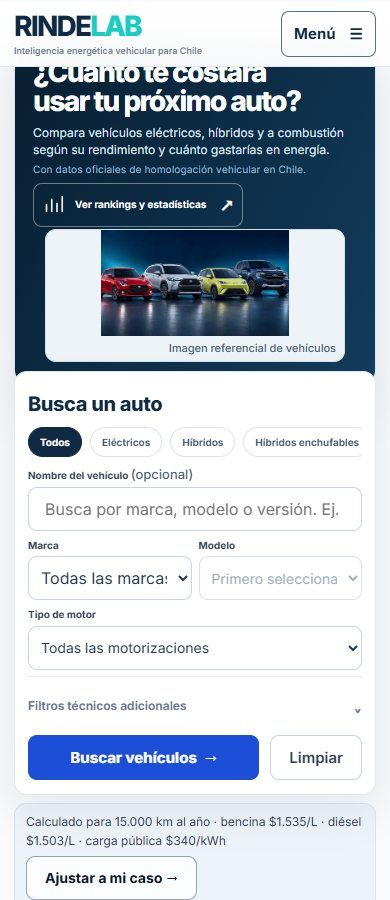
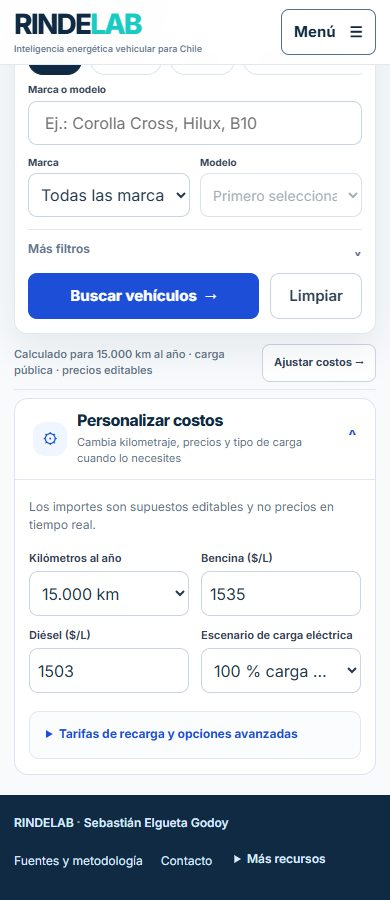
ux(rindelab): remove homepage clutter and add LinkedIn share preview

diff --git a/rindelab/index.html b/rindelab/index.html
@@ -7,13 +7,18 @@
 <meta name="description" content="RINDELAB: busca vehículos homologados en Chile, revisa sus rendimientos y compara el costo estimado de energía por 100 kilómetros.">
 <meta name="author" content="Sebastián Elgueta Godoy">
 <meta property="og:type" content="website">
+<meta property="og:locale" content="es_CL">
 <meta property="og:title" content="RINDELAB | Con las alzas, cada peso cuenta">
-<meta property="og:description" content="Busca vehículos, compara rendimientos y estima cuánto gastarías en energía al año o en cinco años. Chile, datos 3CV.">
+<meta property="og:description" content="Compara vehículos eléctricos, híbridos y a combustión. Consulta rendimiento homologado y estima el gasto de energía según tus kilómetros.">
 <meta property="og:url" content="https://selguetagodoy.github.io/rindelab/">
 <meta property="og:site_name" content="RINDELAB">
-<meta property="og:image" content="https://selguetagodoy.github.io/rindelab/hero-foto-rindelab.webp">
-<meta property="og:image:alt" content="Automóviles representativos sobre fondo azul. RINDELAB, comparador de costos energéticos.">
+<meta property="og:image" content="https://selguetagodoy.github.io/rindelab/linkedin-preview.png">
+<meta property="og:image:type" content="image/png">
+<meta property="og:image:width" content="1200">
+<meta property="og:image:height" content="630">
+<meta property="og:image:alt" content="RINDELAB: compara el gasto energético de tu próximo auto con datos oficiales 3CV.">
 <meta name="twitter:card" content="summary_large_image">
+<meta name="twitter:image" content="https://selguetagodoy.github.io/rindelab/linkedin-preview.png">
 <script type="application/ld+json">{"@context":"https://schema.org","@graph":[{"@type":"WebApplication","name":"RINDELAB","url":"https://selguetagodoy.github.io/rindelab/","description":"Consulta homologaciones 3CV y compara costos energéticos estimados de vehículos en Chile.","applicationCategory":"ReferenceApplication","operatingSystem":"Web","isAccessibleForFree":true,"creator":{"@type":"Person","name":"Sebastián Elgueta Godoy"}},{"@type":"Dataset","name":"RINDELAB: rendimientos vehiculares homologados en Chile","description":"Integración independiente de fichas 3CV de mayo 2026 y nuevos códigos de la consulta oficial de octubre 2026. No equivale a un catálogo de vehículos disponibles para venta.","url":"https://selguetagodoy.github.io/rindelab/","isBasedOn":["https://www.consumovehicular.cl/","https://consumovehicular.minenergia.cl/sites/default/files/middleware/RENDIMIENTOOFICIAL08may2026.xlsx"],"creator":{"@type":"Person","name":"Sebastián Elgueta Godoy"}}]}</script>
 <link rel="canonical" href="https://selguetagodoy.github.io/rindelab/">
 <link rel="icon" type="image/svg+xml" href="./favicon.svg">
@@ -21,8 +26,10 @@
 <link rel="stylesheet" href="./v6.css?v=20261018-imagen-v78"><link rel="stylesheet" href="./sii/sii.css?v=20261018-sii-lectura2">
 <link rel="stylesheet" href="./v2-premium.css?v=20261018-rc1">
 <link rel="stylesheet" href="./v2-claridad.css?v=20261018-v1">
+<link rel="stylesheet" href="./v2-polish.css?v=20261018-v1">
 <script src="./v2-premium.js?v=20261018-rc1" defer></script>
 <script src="./v2-claridad.js?v=20261018-v1" defer></script>
+<script src="./v2-polish.js?v=20261018-v1" defer></script>
 <script src="./v2-photos.js?v=20261019-1" defer></script>
 <title>RINDELAB | Con las alzas, cada peso cuenta</title>
 </head>
@@ -30,16 +37,15 @@
 <header class="site-header">
  <div class="shell header-inner">
   <div class="brand-lockup"><a href="#inicio" class="logo" aria-label="RINDELAB inicio">RINDE<span>LAB</span></a><small class="brand-tagline">Inteligencia energética vehicular para Chile</small></div>
-  <nav class="header-links" aria-label="Navegación principal"><a href="#inicio">Inicio</a><a href="#buscador">Comparar</a><a href="#rankings" data-open-rankings>Rankings</a><a href="./metodologia.html">Fuentes</a><a href="./cotizador.html" class="nav-secondary">Cotizar</a><a href="./marcas.html" class="nav-secondary">Marcas</a></nav>
-  <details id="mobileNav" class="mobile-nav"><summary aria-label="Abrir navegación de RINDELAB">Menú <span aria-hidden="true">☰</span></summary><nav aria-label="Navegación móvil"><a href="#inicio">Inicio</a><a href="#buscador">Comparar</a><a href="#rankings" data-open-rankings>Rankings</a><a href="#supuestos">Ajustar costos</a><a href="./cotizador.html">Cotizar auto</a><a href="./marcas.html">Marcas y cobertura</a><a href="./metodologia.html">Fuentes y metodología</a></nav></details>
+  <nav class="header-links" aria-label="Navegación principal"><a href="#buscador">Buscar</a><a href="#rankings" data-open-rankings>Rankings</a><a href="./cotizador.html">Cotizador</a><a href="./marcas.html">Marcas</a><a href="./metodologia.html">Fuentes</a></nav>
+  <details id="mobileNav" class="mobile-nav"><summary aria-label="Abrir navegación de RINDELAB">Menú <span aria-hidden="true">☰</span></summary><nav aria-label="Navegación móvil"><a href="#buscador">Buscar</a><a href="#rankings" data-open-rankings>Rankings</a><a href="./cotizador.html">Cotizar auto</a><a href="./marcas.html">Marcas</a><a href="./metodologia.html">Fuentes</a></nav></details>
  </div>
 </header>
 <main id="inicio" class="shell">
  <section class="intro visual-hero" aria-labelledby="title">
    <div class="hero-copy">
-    <p class="eyebrow"><span class="signal-dot" aria-hidden="true"></span> RENDIMIENTO VEHICULAR EN CHILE</p>
     <h1 id="title">¿Cuánto te costará usar tu próximo auto?</h1>
-    <p>Compara vehículos eléctricos, híbridos y a combustión según su rendimiento y cuánto gastarías en energía.</p><small class="hero-support">Con datos oficiales de homologación vehicular en Chile.</small>
+    <p>Compara vehículos eléctricos, híbridos y a combustión según su rendimiento y cuánto gastarías en energía.</p>
     <button class="statistics-entry" id="statsOpen" type="button" aria-haspopup="dialog" aria-controls="statsDialog">
      <svg aria-hidden="true" width="21" height="21" viewBox="0 0 24 24" fill="none" stroke="currentColor" stroke-width="1.8"><path d="M4 20V12M10 20V6M16 20v-9M22 20V3" stroke-linecap="round"/></svg>
      Ver rankings y estadísticas <span aria-hidden="true">↗</span>
@@ -51,13 +57,13 @@
    </div>
   </section>
   <section id="buscador" class="search-card" aria-label="Buscador de vehículos">
-  <div class="search-card-heading"><div><h2>Busca un auto</h2></div><p>Compara gasto anual y rendimiento de vehículos homologados.</p></div>
+  <div class="search-card-heading"><h2>Busca un auto</h2></div>
   <form id="vehicleForm" role="search">
    <div class="quick-filters" role="group" aria-label="Filtrar por motorización"><button type="button" data-quick-tech="" aria-pressed="true">Todos</button><button type="button" data-quick-tech="EV" aria-pressed="false">Eléctricos</button><button type="button" data-quick-tech="HEV" aria-pressed="false">Híbridos</button><button type="button" data-quick-tech="PHEV" aria-pressed="false">Híbridos enchufables</button><button type="button" data-quick-tech="Bencina" aria-pressed="false">Bencina</button><button type="button" data-quick-tech="Diésel" aria-pressed="false">Diésel</button></div>
    <div class="fields">
     <div class="field wide">
-     <label for="query">Nombre del vehículo <span class="optional">(opcional)</span></label>
-     <input id="query" type="search" autocomplete="off" placeholder="Busca por marca, modelo o versión. Ej.: Corolla Cross, Hilux, B10" list="suggestions" spellcheck="false">
+     <label for="query">Marca o modelo</label>
+     <input id="query" type="search" autocomplete="off" placeholder="Ej.: Corolla Cross, Hilux, B10" list="suggestions" spellcheck="false">
      <datalist id="suggestions"></datalist>
     </div>
     <div class="field">
@@ -68,7 +74,12 @@
      <label for="model">Modelo</label>
      <select id="model" disabled><option value="">Primero selecciona una marca</option></select>
     </div>
-    <div class="field">
+
+   </div>
+   <details class="technical" id="technical">
+    <summary>Más filtros <span aria-hidden="true">⌄</span></summary>
+    <div class="technical-fields">
+      <div class="field">
      <label for="tech">Tipo de motor</label>
      <select id="tech">
       <option value="">Todas las motorizaciones</option>
@@ -78,10 +89,6 @@
       <option value="EV">Eléctrico (EV)</option>
      </select>
     </div>
-   </div>
-   <details class="technical" id="technical">
-    <summary>Filtros técnicos adicionales <span aria-hidden="true">⌄</span></summary>
-    <div class="technical-fields">
      <div class="field"><label for="bodytype">Carrocería (3CV)</label><select id="bodytype"><option value="">Todas</option></select></div>
      <div class="field"><label for="cycle">Ciclo de homologación</label><select id="cycle"><option value="">Todos los ciclos</option><option value="WLTP">WLTP</option><option value="NEDC">NEDC</option></select></div>
      <div class="field"><label for="year">Homologación desde</label><select id="year"><option value="">Todo el historial</option><option value="2025">2025</option><option value="2024">2024</option><option value="2020">2020</option><option value="2015">2015</option></select></div>
@@ -96,7 +103,7 @@
  </section>
  <div id="scenarioSummary" class="scenario-strip" aria-label="Tus supuestos de gasto">
    <p id="scenarioSummaryText">Calculado para 15.000 km al año · bencina $1.535/L · carga pública $340/kWh</p>
-   <a href="#supuestos" id="scenarioAdjust" class="button secondary">Ajustar a mi caso →</a>
+   <a href="#supuestos" id="scenarioAdjust" class="button secondary">Ajustar costos →</a>
   </div>
  <section id="results" class="results" aria-labelledby="resultsTitle" hidden>
   <div class="results-head">
@@ -110,7 +117,7 @@
   </div>
   <p id="sortNote" class="sort-note" role="note" hidden></p>
   <details id="sourceLegend" class="source-legend" aria-label="Cómo interpretar los resultados" hidden>
-   <summary><span>Datos oficiales 3CV · mayo y octubre de 2026</span><span class="source-legend-link">¿Cómo se calculan y qué está pendiente? <span aria-hidden="true">⌄</span></span></summary>
+   <summary><span>Sobre estos resultados</span><span class="source-legend-link">Ver detalles <span aria-hidden="true">⌄</span></span></summary>
    <div class="source-legend-details">
     <p><strong>Rendimientos oficiales.</strong> Base histórica 3CV de mayo y 272 registros adicionales de la API oficial de octubre de 2026. Cada ficha muestra su ciclo NEDC o WLTP; sus valores no son directamente equivalentes.</p>
     <p><strong>Homologaciones MTT pendientes.</strong> Un código de septiembre continúa sin ficha energética en la consulta de octubre. No recibe costos estimados ni se mezcla con fichas con rendimiento.</p>
@@ -132,7 +139,7 @@
   <div id="suggested" class="suggested" hidden></div>
   <div id="energyResultsHeading" class="energy-results-heading" hidden>
     <div><strong>Fichas energéticas 3CV</strong><span id="energyResultsCount"></span></div>
-    <small>Fichas energéticas del 3CV de mayo y de la consulta oficial de octubre de 2026 · cada vehículo indica la fuente, el ciclo y los datos disponibles.</small>
+
   </div>
   <div id="resultList" class="result-list"></div>
   <div class="load-more"><button type="button" id="more" class="button secondary" hidden>Mostrar 10 vehículos más</button></div>
@@ -226,12 +233,7 @@
     </details>
    </div>
   </details>
- <section id="fuentes" class="source-teaser" aria-labelledby="sourcesTeaserTitle">
-  <div><h2 id="sourcesTeaserTitle">Datos oficiales, cálculos transparentes</h2>
-   <p><strong><span id="recordCount">8.325</span> fichas energéticas</strong> de fuentes 3CV. Los gastos son estimaciones calculadas con precios editables.</p></div>
-  <a href="./metodologia.html" class="button secondary">Fuentes y metodología →</a>
- </section>
-</main>
+ </main>
 <div id="compareTray" class="compare-tray" hidden aria-label="Vehículos elegidos para comparar">
  <div class="compare-inner">
   <div class="compare-selection">
@@ -282,8 +284,16 @@
  </div>
  <div id="compareContent" class="modal-body compare-content"></div><div class="compare-share"><button id="shareCompare" type="button" class="button secondary">Copiar enlace de comparación</button><input id="compareShareLink" type="text" readonly aria-label="Enlace para compartir la comparación" hidden><p id="shareFeedback" role="status" aria-live="polite"></p></div>
 </dialog>
-<footer class="footer">
- <div class="shell"><strong>RINDELAB</strong><span>Creada por Sebastián Elgueta Godoy · <a href="mailto:e.elguetagodoy@gmail.com">Contacto</a></span><details class="footer-data"><summary>Transparencia y datos</summary><a href="./marcas.html">Todas las marcas</a><a href="./cobertura.html">Cobertura comercial</a><a href="./homologaciones.html">Control documental</a><a href="./novedades-3cv.html">Homologaciones recientes</a><a href="./versiones.html">Versiones</a></details><small>Chequea la información en los sitios oficiales. Fuente 3CV, Ministerio de Energía.</small></div>
+<footer class="footer" id="fuentes">
+ <div class="shell footer-minimal">
+  <span class="footer-credit">RINDELAB <span aria-hidden="true">·</span> Sebastián Elgueta Godoy</span>
+  <nav class="footer-links" aria-label="Información y contacto">
+   <a href="./metodologia.html">Fuentes y metodología</a>
+   <a href="mailto:e.elguetagodoy@gmail.com">Contacto</a>
+   <details class="footer-data"><summary>Más recursos</summary><a href="./marcas.html">Marcas</a><a href="./cobertura.html">Cobertura comercial</a><a href="./homologaciones.html">Homologaciones</a><a href="./novedades-3cv.html">Novedades 3CV</a><a href="./versiones.html">Versiones</a></details>
+  </nav>
+  <span id="recordCount" hidden>8.325</span>
+ </div>
 </footer>
 <script src="./sii/sii.js?v=20261017-sii12" defer></script>
 <script src="./sii/prices.js?v=20261018-list185" defer></script>

diff --git a/rindelab/v2-polish.css b/rindelab/v2-polish.css
@@ -1,0 +1,59 @@
+/* RINDELAB — revisión editorial para compartir: resultados primero, sin recuadros explicativos duplicados. */
+.search-card .fields{grid-template-columns:repeat(2,minmax(0,1fr));gap:14px}
+.search-card .fields .field.wide{grid-column:1/-1}
+.search-card .search-card-heading{margin-bottom:14px}
+.search-card .search-card-heading h2{margin:0}
+.search-card .technical{margin-top:12px;border-top:1px solid #e2e8f0;padding-top:0}
+.search-card .technical summary{min-height:37px;font-size:12px;color:#64748b;font-weight:650}
+.search-card .technical[open] .technical-fields{display:grid;grid-template-columns:repeat(4,minmax(0,1fr));gap:11px;padding:12px 0 5px}
+.search-card .technical-fields .field select{min-width:0;max-width:100%}
+.visual-hero .hero-copy{display:flex;flex-direction:column;justify-content:center}
+.visual-hero h1{margin-top:0}
+.scenario-strip{background:transparent!important;border:none!important;box-shadow:none!important;min-height:52px;margin:3px 0 4px!important;padding:8px 2px!important;border-bottom:1px solid #e2e8f0!important;border-radius:0!important}
+.scenario-strip p{font-size:12px!important;color:#64748b!important;font-weight:560;line-height:1.45}
+.scenario-strip .button{min-height:37px!important;font-size:12px!important;border-radius:8px}
+.js-polished .scenario-drawer:not([open]){display:none!important}
+.js-polished .scenario-drawer[open]{margin:8px 0 20px!important}
+.js-polished .scenario-drawer[open] .scenario-drawer-toggle{min-height:61px;padding:12px 18px}
+.js-polished .scenario-drawer[open] .scenario-drawer-heading strong{font-size:16px}
+.js-polished .scenario-drawer[open] .scenario-drawer-heading small{font-size:11px}
+.js-polished .scenario-drawer[open] .scenario-icon{height:34px;width:34px;flex-basis:34px}
+.result-list{scroll-margin-top:85px}
+.source-legend{background:transparent!important;border:0!important;border-radius:0!important;border-bottom:1px solid #e2e8f0!important;margin:0 0 11px!important;box-shadow:none!important}
+.source-legend summary{min-height:35px!important;font-size:11px!important;font-weight:620!important;padding:5px 2px 7px!important;color:#64748b!important}
+.source-legend .source-legend-link{font-weight:620!important;color:#64748b!important}
+.source-legend[open] .source-legend-details{border:1px solid #e2e8f0;border-radius:8px;padding:13px!important;margin-bottom:10px;background:#f8fafc}
+.energy-results-heading{margin:10px 0 12px!important;padding-bottom:9px!important}
+.energy-results-heading strong{font-weight:730;color:#102a43;font-size:13px}
+.footer{background:#102a43;padding:17px 0 19px}
+.footer>.shell.footer-minimal{display:flex;justify-content:space-between;align-items:center;gap:14px;flex-wrap:wrap}
+.footer-minimal .footer-credit{font-size:12px;color:#dbeafe;font-weight:580}
+.footer-minimal .footer-credit span{opacity:.58}
+.footer-links{display:flex;align-items:center;justify-content:flex-end;gap:18px;flex-wrap:wrap}
+.footer-links>a{font-size:12px;color:#dbeafe;text-decoration:none}
+.footer-links>a:hover{color:#fff;text-decoration:underline}
+.footer-links .footer-data{min-width:0}
+.footer-links .footer-data summary{font-size:12px;font-weight:570;color:#dbeafe;min-height:36px;padding:9px 4px}
+.footer-links .footer-data[open]{max-width:530px}
+.footer-links .footer-data a{color:#e2e8f0}
+.footer-minimal [hidden]{display:none!important}
+@media(max-width:860px){
+ .search-card .technical[open] .technical-fields{grid-template-columns:repeat(2,minmax(0,1fr))}
+}
+@media(max-width:600px){
+ .visual-hero .hero-copy>p:last-of-type{font-size:13px;max-width:100%;line-height:1.46}
+ .search-card .fields{grid-template-columns:repeat(2,minmax(0,1fr));gap:10px}
+ .search-card .fields .field:last-child{grid-column:auto}
+ .search-card .technical[open] .technical-fields{grid-template-columns:1fr}
+ .scenario-strip{flex-direction:row;align-items:center;justify-content:space-between;gap:5px 10px;padding:7px 0!important}
+ .scenario-strip p{flex:1 1 165px!important;font-size:11px!important}
+ .scenario-strip .button{width:auto!important;min-height:38px!important;font-size:11px!important;padding:8px 11px}
+ .footer>.shell.footer-minimal{gap:8px;align-items:flex-start;flex-direction:column}
+ .footer-links{gap:6px 18px;justify-content:flex-start}
+ .footer-links .footer-data summary{min-height:40px}
+}
+@media(max-width:350px){.search-card .technical[open] .technical-fields{grid-template-columns:1fr}}
+
+/* El enlace a rankings no debe ocupar todo el ancho del hero. */
+.visual-hero .statistics-entry{align-self:flex-start;width:auto!important;max-width:100%;display:inline-flex;justify-content:center;align-items:center;gap:8px}
+@media(max-width:600px){.visual-hero .statistics-entry{min-width:0;width:auto!important;font-size:11px}}

diff --git a/rindelab/v6.js b/rindelab/v6.js
@@ -7,9 +7,9 @@ const money=n=>n===null||!Number.isFinite(n)?'Sin dato comparable':'$'+Math.roun
 const fmt=n=>Number(n).toLocaleString('es-CL');
 const techHuman={EV:'Eléctrico',HEV:'Híbrido',MHEV:'Híbrido suave',PHEV:'Híbrido enchufable',REEV:'Eléctrico con extensor',Bencina:'Bencina',Diésel:'Diésel'};
 function updateScenarioSummary(){
- const km=Number($('annualKm').value)||15000,gas=number($('gasPrice').value),diesel=number($('dieselPrice').value),electric=number($('electricPrice').value);
- const mode=$('chargeScenario').value,place=mode==='home'?'carga en casa':mode==='mixed'?'carga mixta':mode==='manual'?'tarifa elegida':'carga pública';
- $('scenarioSummaryText').textContent='Calculado para '+fmt(km)+' km al año · bencina '+(gas?'$'+fmt(gas)+'/L':'sin tarifa')+' · diésel '+(diesel?'$'+fmt(diesel)+'/L':'sin tarifa')+' · '+place+' '+(electric?'$'+fmt(electric)+'/kWh':'sin tarifa');
+ const km=Number($('annualKm').value)||15000;
+ const mode=$('chargeScenario').value,place=mode==='home'?'carga en casa':mode==='mixed'?'carga mixta':mode==='manual'?'tarifa manual':'carga pública';
+ $('scenarioSummaryText').textContent='Calculado para '+fmt(km)+' km al año · '+place+' · precios editables';
 }
 const safe=value=>String(value??'').replace(/[&<>"']/g,c=>({'&':'&amp;','<':'&lt;','>':'&gt;','"':'&quot;',"'":'&#39;'}[c]));
 const normalize=s=>String(s||'').normalize('NFD').replace(/[\u0300-\u036f]/g,'').toLowerCase().replace(/[^a-z0-9]+/g,' ').replace(/\s+/g,' ').trim();

diff --git a/rindelab/v2-polish.js b/rindelab/v2-polish.js
@@ -1,0 +1,11 @@
+/* RINDELAB: evita la duplicación visual entre la barra de ajustes y el panel, sin perder acceso con JS desactivado. */
+(()=>{'use strict';document.addEventListener('DOMContentLoaded',()=>{
+ const drawer=document.getElementById('supuestos');
+ const link=document.getElementById('scenarioAdjust');
+ if(!drawer||!link)return;
+ document.documentElement.classList.add('js-polished');
+ const show=()=>{drawer.open=true;requestAnimationFrame(()=>drawer.scrollIntoView({block:'start',behavior:'instant'}))};
+ link.addEventListener('click',show);
+ // V2-claridad.js abre los enlaces directos y conserva el botón del escenario.
+ if(location.hash==='#supuestos')drawer.open=true;
+});})();

diff --git a/rindelab/RINDELAB_PRESENTACION_LINKEDIN_QA.md b/rindelab/RINDELAB_PRESENTACION_LINKEDIN_QA.md
@@ -1,0 +1,40 @@
+# RINDELAB — Auditoría final de portada y preparación para LinkedIn
+
+**Alcance:** contenido visible de la página principal, navegación, fichas y presentación de enlaces; sin alteración de datos ni fórmulas energéticas.
+
+## Residuos eliminados
+
+| Antes | Corrección |
+| --- | --- |
+| Bloque «Datos oficiales, cálculos transparentes» y recuento de 8.325 fichas repetido al final | Eliminado visualmente. El contador técnico `#recordCount` se conserva oculto para mantener la carga y sus validaciones |
+| Recuadro «Personalizar costos» separado de «Ajustar costos» | Se muestra solo un acceso a ajustes. El editor aparece cuando la persona lo solicita |
+| Tres precios iniciales expuestos en la barra de escenario | Barra resumida a kilómetros, tipo de carga y aviso «precios editables» |
+| Hero con etiqueta introductoria y segunda línea institucional | Eliminados; se conserva un único párrafo explicativo |
+| Encabezado del buscador con explicación redundante | Eliminado; el buscador empieza directamente por filtros y vehículo |
+| Campo «Tipo de motor» duplicado con los filtros rápidos | Trasladado a «Más filtros», donde permanecen HEV, MHEV, PHEV y REEV, sin perder categorías |
+| Navegación con «Inicio» y «Comparar» llevando a lo mismo | Fusionada en «Buscar» y cinco destinos con nombres claros |
+| Leyenda de resultados excesivamente extensa | Presentada como «Sobre estos resultados» desplegable; se preserva la explicación al abrir |
+| Párrafo largo bajo «Fichas energéticas 3CV» | Eliminado; las fuentes siguen en las fichas y en metodología |
+| Pie con mensaje redundante «Chequea la información…» | Consolidado a autor, metodología, contacto y «Más recursos» |
+| Enlace compartido con fotografía de 450 × 253 px | Imagen exclusiva de vista previa en 1200 × 630 px, referencia gráfica coherente con la web y metadatos Open Graph |
+
+## Qué se mantiene
+
+Búsqueda, filtros de motor completo (incluidos PHEV/REEV), comparación de hasta cinco vehículos, fotografías referenciales verificables y atribuidas, cálculos de gasto con tarifa editable, documentos 3CV y MTT, consulta SII, rankings, cotizador, métodos de carga domiciliaria/pública/mixta y acceso integral a `metodologia.html`.
+
+**Transparencia:** el recuento 8.325 sigue siendo un dato reproducible de la base de mayo/octubre 2026, aunque ya no ocupa espacio en la portada. La nueva tarjeta para redes no promete ahorro monetario ni afirma que las fotografías correspondan a una versión comercial exacta.
+
+## Imágenes de presentación
+
+- Vista previa para publicaciones: [linkedin-preview.png](linkedin-preview.png), PNG de **1200 × 630**.
+- Capturas de la portada: [escritorio](qa-v2/claridad-1440.jpg) y [celular](qa-v2/claridad-390.jpg).
+- Fichas de vehículos: [resultados en escritorio](qa-v2/resultados-1440.jpg).
+- Fuentes: [metodologia.html](metodologia.html).
+
+## QA
+
+- Se agregó `tests/v2-showcase.cjs` a GitHub Actions para bloquear futuras regresiones de contenido redundante, tamaño de la tarjeta social, enlaces de fuentes, accesibilidad de motores menos frecuentes y overflow en 320/390/768/1440 px.
+- Las 6 comprobaciones específicas de claridad, 6 de presentación social, 10 de diseño y 23 de submódulos han aprobado en la rama local.
+- La regresión completa se verificará nuevamente en GitHub Actions antes de fusionar y desplegar.
+
+**Publicación:** compartir la URL canónica `https://selguetagodoy.github.io/rindelab/` sin parámetros de seguimiento obligatorios. La previsualización de LinkedIn depende de la caché del servicio y no puede garantizarse hasta que su rastreador vuelva a leer los metadatos.

diff --git a/rindelab/qa-v2/README.md b/rindelab/qa-v2/README.md
@@ -61,3 +61,17 @@ La página principal ahora separa búsqueda, ajustes y metodología. Los detalle
 **Documentación independiente**
 
 ![Metodología y fuentes en página propia](claridad-metodologia.jpg)
+
+## Revisión editorial final para LinkedIn
+
+**Portada depurada — escritorio y celular**
+
+![Portada depurada en escritorio](claridad-1440.jpg)
+
+![Portada depurada en móvil](claridad-390.jpg)
+
+**Vista previa social**
+
+![Tarjeta social de RINDELAB](../linkedin-preview.png)
+
+La portada ya no muestra el bloque de 8.325 fichas, el segundo acceso a ajustes ni las explicaciones repetidas. Todos los datos y advertencias técnicas permanecen disponibles desde «Fuentes» o desde la ficha correspondiente.
